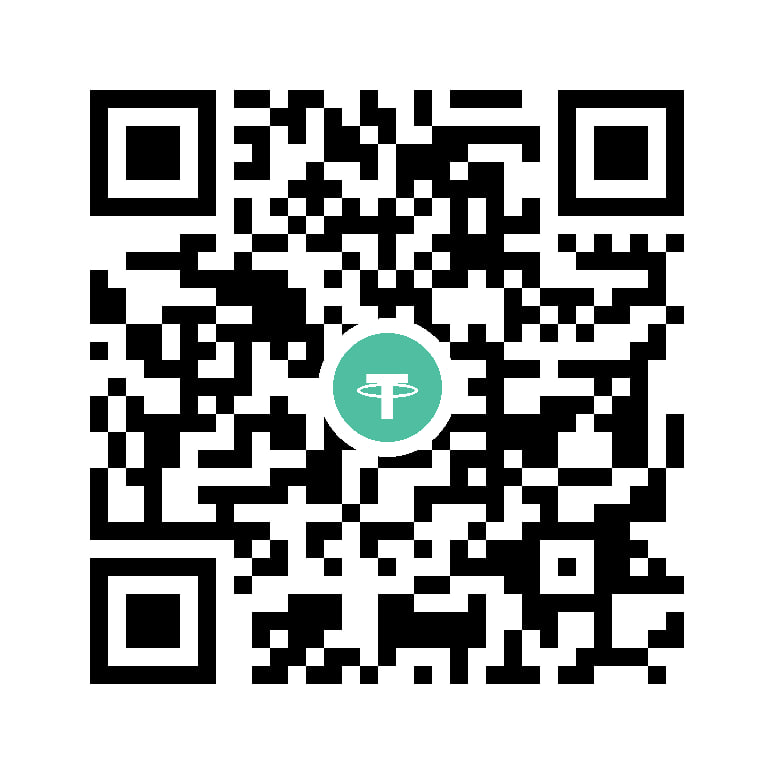
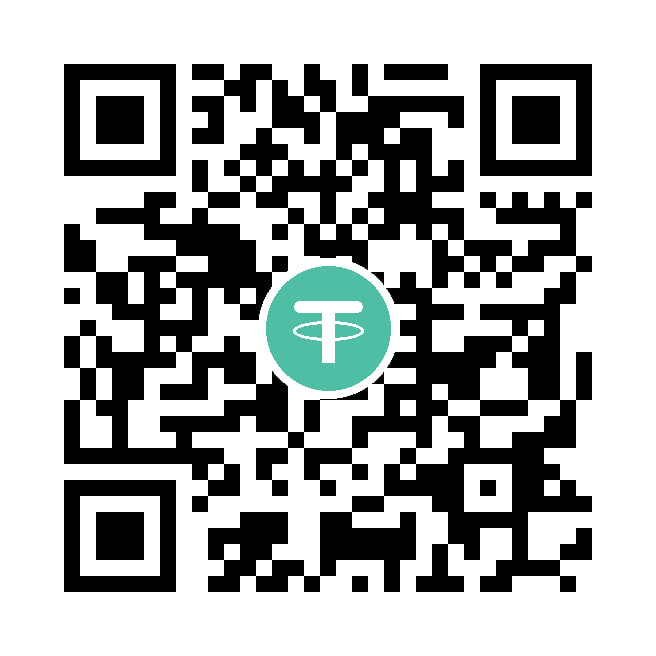
Update deposit wallet address and QR code

Changed region(s): [[0.0915, 0.0915, 0.9146, 0.9146]]

diff --git a/server.js b/server.js
@@ -30,7 +30,7 @@ const depositWallets = [
   },
 
   {
-    address: "THCXPUpL9fjMSA4h3EQ3BQQjCWuFtN6mBH",
+    address: "TTBDg9DW5fSoxgeUzF2bnYTqVhBaVavMix",
     qr: "qr444.png"
   }
 
